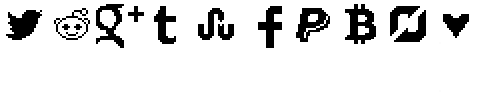
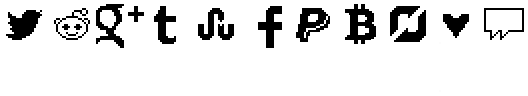
Added doublespeak link

Changed region(s): [[0.0, 0.0312, 1.0, 0.5], [0.0312, 0.3438, 0.0625, 0.4062], [0.0, 0.3125, 0.0312, 0.3438]]

diff --git a/www/css/main.css b/www/css/main.css
@@ -68,7 +68,7 @@ body.night {
 	height: 80px;
 	opacity: 1;
 	width: 80px;
-    bottom: 0px;
+    top: 210px;
     left: 50%;
     margin-left: -40px;
 }
@@ -440,24 +440,33 @@ body.night {
 /** Save Spinner **/
 
 .saveSpinner {
-	width: 40px;
-	height: 40px;
+	display: block;
+	width: 48px;
+	height: 48px;
 	position: absolute;
-	left: 3px;
-	bottom: 4px;
-	opacity: 0;
+	left: 5px;
+	top: 1px;
 	transition: opacity 200ms linear;
 	-webkit-transition: opacity 200ms linear;
 	-moz-transition: opacity 200ms linear;
 	-ms-transition: opacity 200ms linear;
 	-o-transition: opacity 200ms linear;
+	background: url(../img/social.png) -480px 0;
+}
+
+.saveSpinner span {
+	display: none;
 }
 
 .saveSpinner.active {
-	opacity: 1;
+	background: none;
 }
 
-.saveSpinner div {
+.saveSpinner.active span {
+	display: block;
+}
+
+.saveSpinner span {
 	position: absolute;
 	width: 15%;
 	height: 15%;
@@ -474,19 +483,19 @@ body.night {
 	-o-animation: pulse 1s infinite;
 }
 
-.night .saveSpinner div {
+.night .saveSpinner span {
 	background-color: white;
 }
 
-.bigExplosion .saveSpinner div {
+.bigExplosion .saveSpinner span {
 	background-color: black;
 }
 
-.saveSpinner div:nth-child(1) {
+.saveSpinner span:nth-child(1) {
 	top: 0px;
 	left: 42.5%;
 }
-.saveSpinner div:nth-child(2) {
+.saveSpinner span:nth-child(2) {
 	top: 10%;
 	right: 10%;
 	animation-delay: -875ms;
@@ -495,7 +504,7 @@ body.night {
 	-ms-animation-delay: -875ms;
 	-o-animation-delay: -875ms;
 }
-.saveSpinner div:nth-child(3) {
+.saveSpinner span:nth-child(3) {
 	top: 42.5%;
 	right: 0px;
 	animation-delay: -750ms;
@@ -504,7 +513,7 @@ body.night {
 	-ms-animation-delay: -750ms;
 	-o-animation-delay: -750ms;
 }
-.saveSpinner div:nth-child(4) {
+.saveSpinner span:nth-child(4) {
 	bottom: 10%;
 	right: 10%;
 	animation-delay: -625ms;
@@ -513,7 +522,7 @@ body.night {
 	-ms-animation-delay: -625ms;
 	-o-animation-delay: -625ms;
 }
-.saveSpinner div:nth-child(5) {
+.saveSpinner span:nth-child(5) {
 	bottom: 0;
 	left: 42.5%;
 	animation-delay: -500ms;
@@ -522,7 +531,7 @@ body.night {
 	-ms-animation-delay: -500ms;
 	-o-animation-delay: -500ms;
 }
-.saveSpinner div:nth-child(6) {
+.saveSpinner span:nth-child(6) {
 	bottom: 10%;
 	left: 10%;
 	animation-delay: -375ms;
@@ -531,7 +540,7 @@ body.night {
 	-ms-animation-delay: -375ms;
 	-o-animation-delay: -375ms;
 }
-.saveSpinner div:nth-child(7) {
+.saveSpinner span:nth-child(7) {
 	top: 42.5%;
 	left: 0px;
 	animation-delay: -250ms;
@@ -540,7 +549,7 @@ body.night {
 	-ms-animation-delay: -250ms;
 	-o-animation-delay: -250ms;
 }
-.saveSpinner div:nth-child(8) {
+.saveSpinner span:nth-child(8) {
 	top: 10%;
 	left: 10%;
 	animation-delay: -125ms;

diff --git a/www/index.html b/www/index.html
@@ -21,29 +21,29 @@
 	<body>
 		<div id="test" nodeploy></div>
 		<div id="loadingScreen">
-			<div class="saveSpinner">
-				<div></div>
-				<div></div>
-				<div></div>
-				<div></div>
-				<div></div>
-				<div></div>
-				<div></div>
-				<div></div>
+			<div class="saveSpinner active">
+				<span></span>
+				<span></span>
+				<span></span>
+				<span></span>
+				<span></span>
+				<span></span>
+				<span></span>
+				<span></span>
 			</div>
 		</div>
 		<div class="menuBar litBorder">
 			<div id="debug" style="position:absolute;top:5px;left:100px;" nodeploy></div>
-			<div class="saveSpinner">
-				<div></div>
-				<div></div>
-				<div></div>
-				<div></div>
-				<div></div>
-				<div></div>
-				<div></div>
-				<div></div>
-			</div>
+			<a class="saveSpinner" target="_blank" href="http://www.doublespeakgames.com">
+				<span></span>
+				<span></span>
+				<span></span>
+				<span></span>
+				<span></span>
+				<span></span>
+				<span></span>
+				<span></span>
+			</a>
 			<span class="menuHeading"></span>
 			<div class="menuBtn litBorder">
 				<div class="nightSprite"></div>
